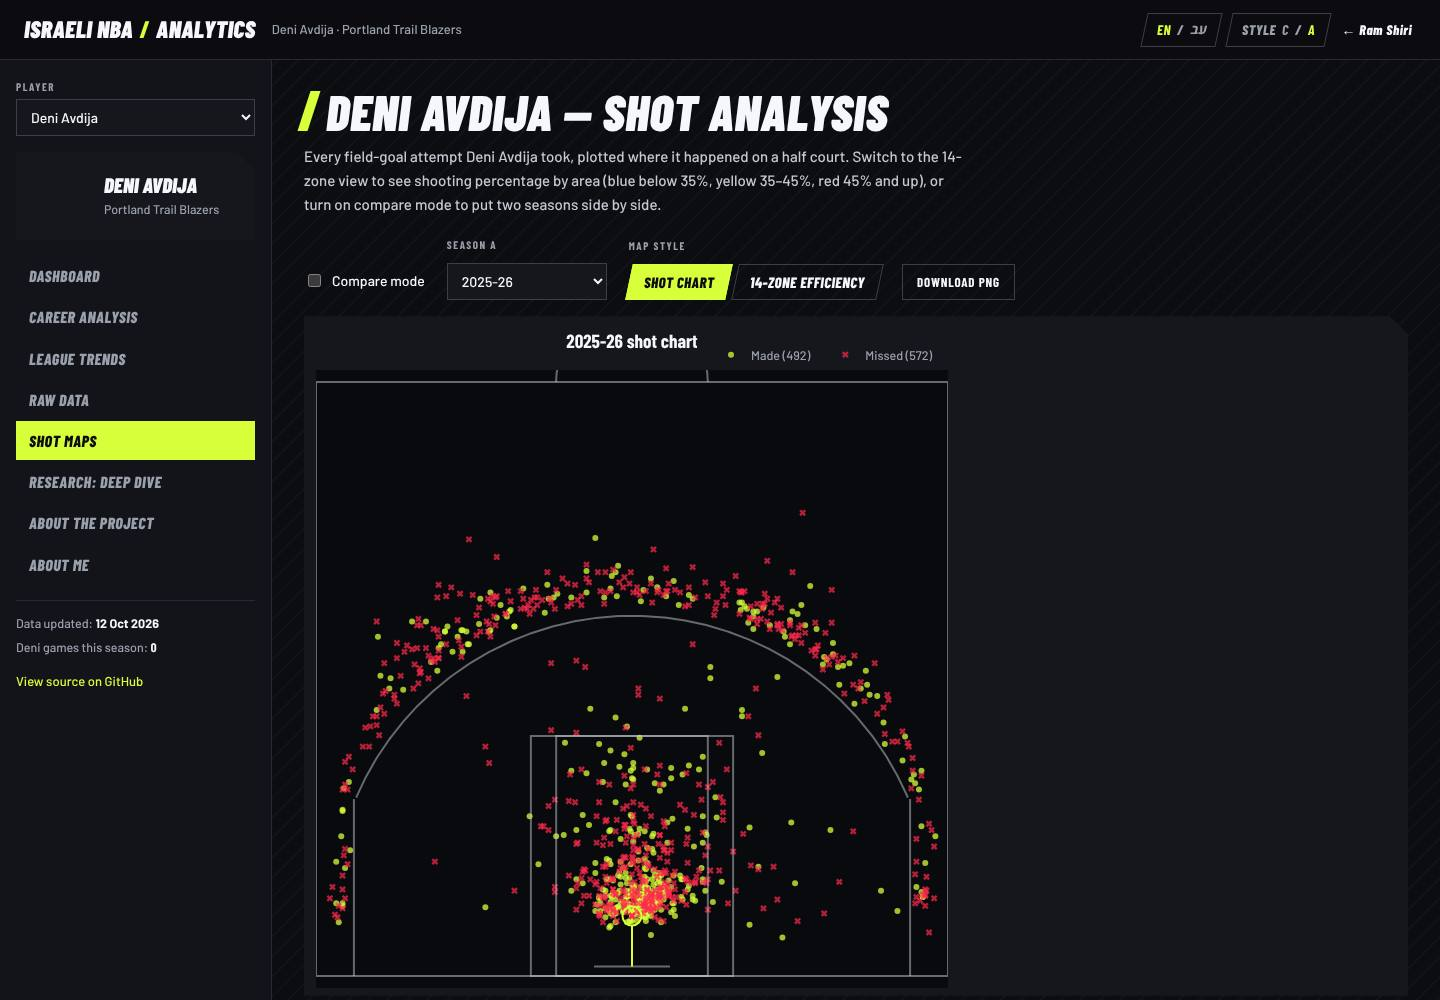
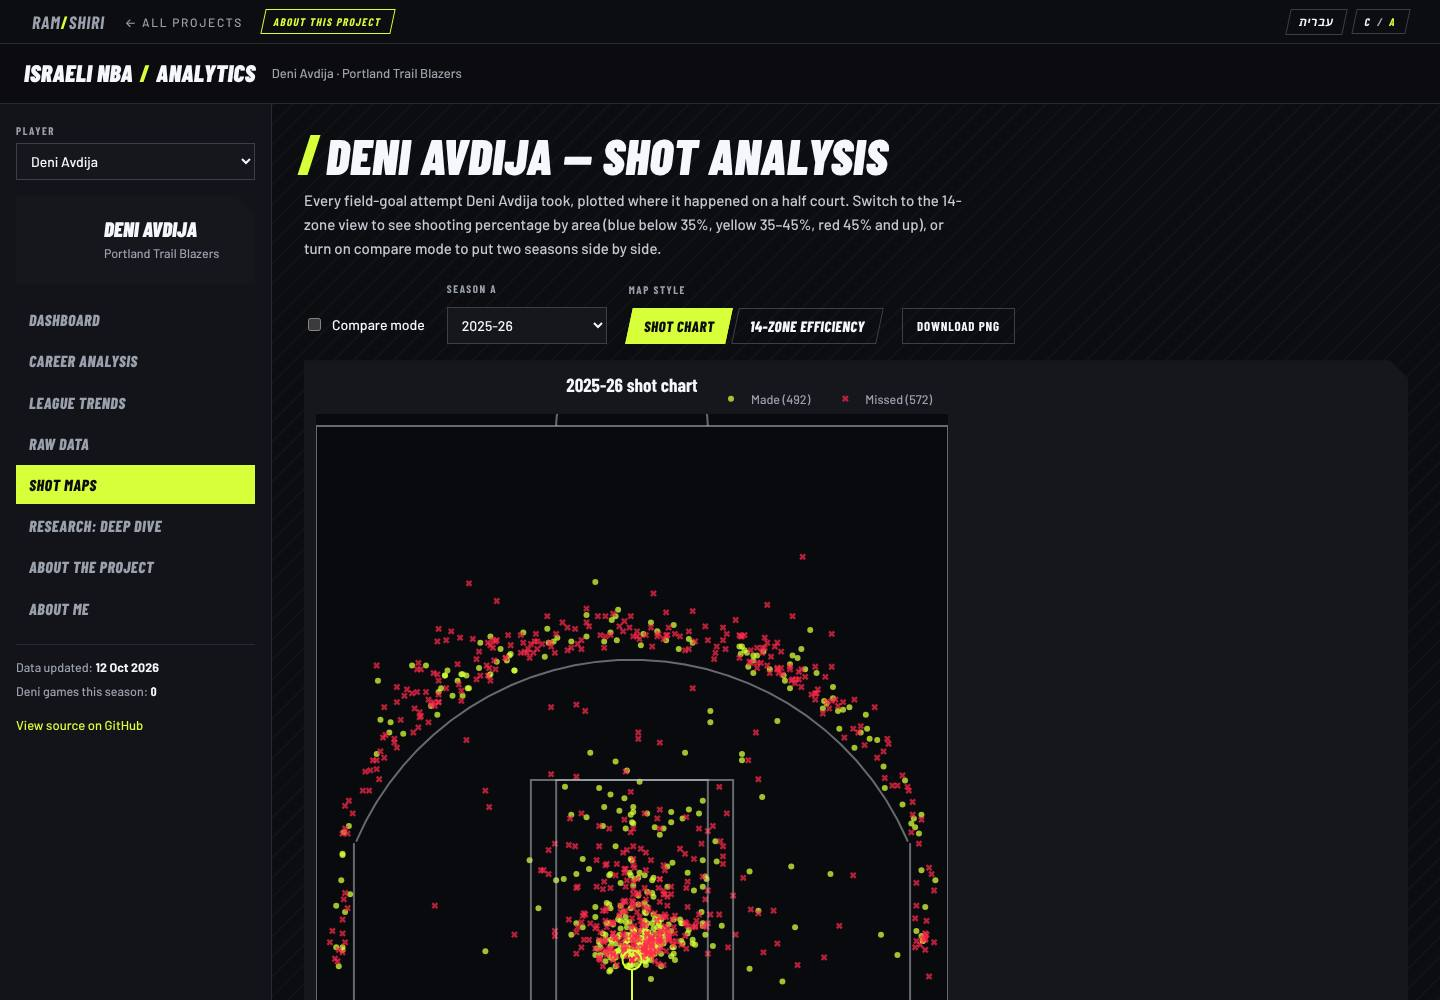
Adopt the shared portfolio bar (brand kit) for style, language and About
Replaces the dashboard's own C/A and EN/HE switches with the portfolio's
shared brand.js/brand.css bar, wires its sitestylechange/sitelangchange
events into re-rendering, and feeds the About sheet from the project
explainer. Screenshots retaken.

Claude-Session: https://claude.ai/code/session_011M2mM3sHnN972wS4dhe82q

diff --git a/nba_dashboard/styles.css b/nba_dashboard/styles.css
@@ -4,7 +4,7 @@
      C  "HUD"      deep navy, cyan hairlines and corner brackets, Chakra Petch over IBM Plex Sans
      A  "Matchday" carbon with diagonal stripes, lime signal, Barlow Condensed italic, chamfered plates
    The structure below is shared; each look only sets tokens and a few flourishes.
-   Hebrew (html[dir="rtl"]) falls back to Heebo for glyphs the display fonts don't carry.
+   Hebrew (html[dir="rtl"]) falls back to IBM Plex Sans Hebrew, loaded by the shared portfolio kit.
    =========================================================================== */
 html[data-style="c"] {
   --bg: #050b14;
@@ -26,8 +26,8 @@ html[data-style="c"] {
   --good: #4ade80;
   --pitch: #040912;
   --court-line: rgba(169, 198, 211, .55);
-  --font: "Chakra Petch", "Heebo", ui-sans-serif, system-ui, sans-serif;
-  --text: "IBM Plex Sans", "Heebo", ui-sans-serif, system-ui, sans-serif;
+  --font: "Chakra Petch", "IBM Plex Sans Hebrew", ui-sans-serif, system-ui, sans-serif;
+  --text: "IBM Plex Sans", "IBM Plex Sans Hebrew", ui-sans-serif, system-ui, sans-serif;
   --head-style: normal;
   --head-weight: 700;
   --head-track: .02em;
@@ -52,8 +52,8 @@ html[data-style="a"] {
   --good: #6bffa0;
   --pitch: #090a0d;
   --court-line: rgba(196, 201, 210, .5);
-  --font: "Barlow Condensed", "Heebo", "Arial Narrow", sans-serif;
-  --text: "Barlow", "Heebo", ui-sans-serif, system-ui, sans-serif;
+  --font: "Barlow Condensed", "IBM Plex Sans Hebrew", "Arial Narrow", sans-serif;
+  --text: "Barlow", "IBM Plex Sans Hebrew", ui-sans-serif, system-ui, sans-serif;
   --head-style: italic;
   --head-weight: 900;
   --head-track: .01em;
@@ -67,7 +67,7 @@ html, body { margin: 0; background: var(--bg); }
 body { color: var(--body); font: 400 15px/1.6 var(--text); -webkit-font-smoothing: antialiased; min-height: 100vh; overflow-x: hidden; }
 html[data-style="c"] body { background-image: radial-gradient(80% 40% at 80% 0%, rgba(77, 240, 255, .06), transparent 70%); background-repeat: no-repeat; }
 html[data-style="a"] body { background-image: repeating-linear-gradient(135deg, rgba(255, 255, 255, .022) 0 2px, transparent 2px 14px); font-weight: 500; }
-html[lang="he"] body { font-family: "Heebo", var(--text); }
+html[lang="he"] body { font-family: "IBM Plex Sans Hebrew", var(--text); }
 
 h1, h2, h3, h4 { font-family: var(--font); color: var(--ink); margin: 0 0 10px; font-weight: var(--head-weight); font-style: var(--head-style);
   letter-spacing: var(--head-track); text-transform: uppercase; line-height: 1.05; }
@@ -102,20 +102,6 @@ hr { border: none; border-top: 1px solid var(--line); margin: 28px 0; }
 html[data-style="c"] .brand { font-weight: 700; font-size: 15px; letter-spacing: .2em; }
 html[data-style="a"] .brand { font-style: italic; font-weight: 900; font-size: 24px; letter-spacing: .01em; }
 .tb-player { color: var(--muted); font-size: 13px; white-space: nowrap; overflow: hidden; text-overflow: ellipsis; min-width: 0; }
-.tb-actions { margin-inline-start: auto; display: flex; align-items: center; gap: 10px; }
-.switch { display: inline-flex; align-items: center; gap: 6px; height: 34px; padding: 0 12px; background: transparent; color: var(--muted);
-  border: 1px solid var(--line-strong); font: 600 12px/1 var(--font); letter-spacing: .14em; text-transform: uppercase; cursor: pointer; white-space: nowrap; }
-.switch b { color: var(--muted); font-weight: 700; }
-.switch:hover { border-color: var(--c); color: var(--ink); }
-html[data-style="c"] #styleSwitch b:first-of-type, html[data-style="a"] #styleSwitch b:last-of-type,
-html[lang="en"] #langSwitch b:first-of-type, html[lang="he"] #langSwitch b:last-of-type { color: var(--c); }
-#langSwitch b:last-of-type { font-family: "Heebo", sans-serif; letter-spacing: 0; }
-@media (min-width: 601px) { html[dir="rtl"] .home-link .hide-sm { display: inline-block; transform: scaleX(-1); } }
-.home-link { font: 600 13px/1 var(--font); letter-spacing: .06em; white-space: nowrap; color: var(--ink); padding: 8px 4px; }
-html[data-style="a"] .switch, html[data-style="a"] .home-link { font-style: italic; font-weight: 800; font-size: 14px; letter-spacing: .04em; }
-html[data-style="a"] .switch { transform: skewX(-12deg); }
-html[data-style="a"] .switch > * { transform: skewX(12deg); }
-
 /* ---------- layout ---------- */
 .layout { display: flex; align-items: flex-start; min-height: calc(100vh - 60px); }
 .sidebar { width: 272px; flex: 0 0 auto; position: sticky; top: 60px; height: calc(100vh - 60px); overflow-y: auto;
@@ -149,7 +135,7 @@ html[data-style="a"] .pc-name { font-size: 21px; }
 html[data-style="c"] .nav button.active { color: var(--c); border-color: var(--line-strong); background: var(--accent-soft); border-inline-start: 2px solid var(--c); }
 html[data-style="a"] .nav button { font-style: italic; font-weight: 800; font-size: 16px; letter-spacing: .03em; }
 html[data-style="a"] .nav button.active { background: var(--c); color: var(--accent-ink); }
-html[lang="he"] .nav button { letter-spacing: 0; font-family: "Heebo", var(--font); font-style: normal; font-weight: 700; }
+html[lang="he"] .nav button { letter-spacing: 0; font-family: "IBM Plex Sans Hebrew", var(--font); font-style: normal; font-weight: 700; }
 
 .status-block { font-size: 12.5px; color: var(--muted); border-top: 1px solid var(--line); padding-top: 12px; }
 .status-block div { margin-bottom: 4px; }
@@ -218,7 +204,7 @@ table.data-table tr.highlight td { background: var(--c); color: var(--accent-ink
 html[data-style="a"] .tabs button { font-style: italic; font-weight: 800; font-size: 15px; letter-spacing: .03em; transform: skewX(-12deg); border-color: var(--line-strong); }
 html[data-style="a"] .tabs button > span { display: inline-block; transform: skewX(12deg); }
 html[data-style="a"] .tabs button[aria-pressed="true"] { background: var(--c); color: var(--accent-ink); border-color: var(--c); }
-html[lang="he"] .tabs button { letter-spacing: 0; font-family: "Heebo", var(--font); font-style: normal; }
+html[lang="he"] .tabs button { letter-spacing: 0; font-family: "IBM Plex Sans Hebrew", var(--font); font-style: normal; }
 
 .btn { display: inline-flex; align-items: center; gap: 8px; height: 36px; padding: 0 14px; background: transparent; color: var(--ink); border: 1px solid var(--line-strong);
   font: 600 13px/1 var(--font); letter-spacing: .06em; text-transform: uppercase; cursor: pointer; }
@@ -238,7 +224,7 @@ html[lang="he"] .tabs button { letter-spacing: 0; font-family: "Heebo", var(--fo
 details.explain, details.scouting { margin-bottom: 20px; padding: 2px 16px; background: var(--panel); border: 1px solid var(--line); }
 details.explain summary, details.scouting summary { cursor: pointer; padding: 12px 0; font: 600 14px/1.3 var(--font); letter-spacing: .06em; text-transform: uppercase; color: var(--ink); }
 html[data-style="a"] details summary { font-style: italic; font-weight: 800; font-size: 17px; }
-html[lang="he"] details summary { letter-spacing: 0; font-family: "Heebo", var(--font); font-style: normal; }
+html[lang="he"] details summary { letter-spacing: 0; font-family: "IBM Plex Sans Hebrew", var(--font); font-style: normal; }
 details .body { padding-bottom: 14px; font-size: 14.5px; line-height: 1.65; max-width: 80ch; }
 details .body blockquote { margin: 12px 0; padding-inline-start: 12px; border-inline-start: 3px solid var(--c); color: var(--muted); font-style: italic; }
 details .body h4 { margin-top: 14px; }
@@ -282,14 +268,9 @@ dl.glossary dd { margin: 0; font-size: 14px; }
 @media (max-width: 600px) {
   .topbar { padding: 0 16px; gap: 8px; }
   .hide-sm { display: none; }
-  .switch { padding: 0 9px; letter-spacing: .06em; }
-  .tb-actions { gap: 6px; }
-  .brand .b2 { display: none; }
   .brand { min-width: 0; overflow: hidden; }
-  .home-link { padding: 8px 0; }
   html[data-style="c"] .brand { font-size: 12px; letter-spacing: .1em; }
   html[data-style="a"] .brand { font-size: 20px; }
-  html[data-style="a"] .switch, html[data-style="a"] .home-link { font-size: 13px; }
   .hero { padding: 14px; gap: 14px; }
   .hero img { width: 64px; height: 64px; }
   .kpi-grid { gap: 8px; }
@@ -304,6 +285,5 @@ dl.glossary dd { margin: 0; font-size: 14px; }
   .controls-row .control { flex: 1 1 140px; }
 }
 @media (max-width: 380px) {
-  .home-link { font-size: 12px; }
   html[data-style="c"] .brand i, html[data-style="a"] .brand i { margin: 0 2px; }
 }

diff --git a/nba_dashboard/index.html b/nba_dashboard/index.html
@@ -8,12 +8,15 @@
   <meta name="theme-color" content="#050b14" />
   <link rel="preconnect" href="https://fonts.googleapis.com" />
   <link rel="preconnect" href="https://fonts.gstatic.com" crossorigin />
-  <link href="https://fonts.googleapis.com/css2?family=Chakra+Petch:wght@400;500;600;700&family=IBM+Plex+Sans:wght@400;500;600&family=Barlow+Condensed:ital,wght@0,700;0,800;1,700;1,800;1,900&family=Barlow:wght@500;600;700&family=Heebo:wght@400;500;700;800&display=swap" rel="stylesheet" />
-  <script>/* same switches as rshiri.github.io: design C (HUD, default) / A (matchday), and English / Hebrew */
+  <link href="https://fonts.googleapis.com/css2?family=Barlow+Condensed:ital,wght@1,900&display=swap" rel="stylesheet" />
+  <!-- shared portfolio kit: the RAM/SHIRI bar with All projects, About, EN/HE and Style C/A,
+       the same switches and localStorage keys (site-style, site-lang) as every project page -->
+  <link rel="stylesheet" href="https://rshiri.github.io/assets/brand/brand.css" />
+  <script src="https://rshiri.github.io/assets/brand/brand.js"></script>
+  <script>/* mirror the kit's choice onto the attributes this dashboard's CSS uses, before first paint */
   (function () {
-    var s = "c", l = "en";
-    try { s = localStorage.getItem("site-style") === "a" ? "a" : "c"; l = localStorage.getItem("site-lang") === "he" ? "he" : "en"; } catch (e) {}
-    var h = document.documentElement;
+    var h = document.documentElement, s = h.getAttribute("data-site-style"), l = h.getAttribute("data-site-lang");
+    try { if (!s) s = localStorage.getItem("site-style") === "a" ? "a" : "c"; if (!l) l = localStorage.getItem("site-lang") === "he" ? "he" : "en"; } catch (e) { s = s || "c"; l = l || "en"; }
     h.setAttribute("data-style", s); h.setAttribute("lang", l); h.setAttribute("dir", l === "he" ? "rtl" : "ltr");
   })();</script>
   <link rel="stylesheet" href="styles.css" />
@@ -24,11 +27,6 @@
   <header class="topbar">
     <a class="brand" href="#dashboard"><span data-i18n="brand_a">Israeli NBA</span><i class="b2">/</i><span class="b2" data-i18n="brand_b">Analytics</span></a>
     <span class="tb-player" id="topbar-player"></span>
-    <div class="tb-actions">
-      <button class="switch" id="langSwitch" type="button" aria-label="Switch language"><b>EN</b><span aria-hidden="true">/</span><b>עב</b></button>
-      <button class="switch" id="styleSwitch" type="button" aria-label="Switch design"><span class="hide-sm" data-i18n="style">Style</span> <b>C</b><span aria-hidden="true">/</span><b>A</b></button>
-      <a class="home-link" href="https://rshiri.github.io/"><span class="hide-sm" aria-hidden="true">&larr; </span>Ram Shiri</a>
-    </div>
   </header>
 
   <div class="layout">

diff --git a/nba_dashboard/app.js b/nba_dashboard/app.js
@@ -183,21 +183,42 @@ async function boot() {
     renderAll();
   });
 
-  document.getElementById("styleSwitch").addEventListener("click", () => {
-    const next = document.documentElement.getAttribute("data-style") === "a" ? "c" : "a";
-    document.documentElement.setAttribute("data-style", next);
-    try { localStorage.setItem("site-style", next); } catch (e) {}
-    renderAll(true);
-  });
-  document.getElementById("langSwitch").addEventListener("click", () => {
-    const next = lang() === "he" ? "en" : "he";
-    document.documentElement.setAttribute("lang", next);
-    document.documentElement.setAttribute("dir", next === "he" ? "rtl" : "ltr");
-    try { localStorage.setItem("site-lang", next); } catch (e) {}
-    renderAll(true);
-  });
+  // The shared portfolio bar (brand.js) owns the EN/HE and C/A switches; mirror its choice here.
+  window.addEventListener("sitestylechange", () => { syncPrefs(); renderAll(true); });
+  window.addEventListener("sitelangchange", () => { syncPrefs(); renderAll(true); });
+  syncPrefs();
 
   renderAll();
+}
+
+function syncPrefs() {
+  const h = document.documentElement;
+  const s = h.getAttribute("data-site-style") || h.getAttribute("data-style") || "c";
+  const l = h.getAttribute("data-site-lang") || h.getAttribute("lang") || "en";
+  h.setAttribute("data-style", s);
+  h.setAttribute("lang", l);
+  h.setAttribute("dir", l === "he" ? "rtl" : "ltr");
+  setAboutPanel();
+}
+
+// Content for the shared bar's "About this project" sheet, taken from the About the Project page.
+function setAboutPanel() {
+  const build = (code) => {
+    const tpl = document.createElement("template");
+    tpl.innerHTML = I18N_BLOCKS[code].project;
+    const kids = Array.from(tpl.content.children);
+    const intro = kids.find(k => k.tagName === "P");
+    const sections = [];
+    kids.forEach(k => {
+      if (k.tagName === "H3") sections.push({ h: k.textContent, p: "" });
+      else if (sections.length) sections[sections.length - 1].p += k.outerHTML;
+    });
+    return { title: I18N[code].page_project, intro: intro ? intro.innerHTML : "", sections };
+  };
+  if (!window.RS_ABOUT) {
+    window.RS_ABOUT = { en: build("en"), he: build("he") };
+    if (window.RSBrand) window.RSBrand.refresh();
+  }
 }
 
 function goPage(page) {

diff --git a/README.md b/README.md
@@ -35,7 +35,8 @@ A player switcher re-renders every page for whichever player is selected:
 - **About the Project** - A page that explains the data pipeline, every page and every metric
 
 ### 🎨 Design
-- Matches [rshiri.github.io](https://rshiri.github.io/): two looks with the same **Style C / A** switch as the portfolio (C = HUD, cyan on deep navy, Chakra Petch; A = Matchday, lime on carbon, Barlow Condensed). The choice is shared with the portfolio through the `site-style` localStorage key.
+- Uses the portfolio's shared bar (`assets/brand/brand.js` + `brand.css` from [rshiri.github.io](https://rshiri.github.io/)): the same RAM/SHIRI header, **All projects** link, **About this project** sheet, EN/עב switch and **Style C / A** switch as every other project page.
+- Two looks (C = HUD, cyan on deep navy, Chakra Petch; A = Matchday, lime on carbon, Barlow Condensed). The choice is shared with the portfolio through the `site-style` localStorage key.
 - **English / Hebrew** switch (`site-lang` key); Hebrew renders right-to-left.
 - Plotly charts read their colours and fonts from the active look's CSS tokens, so they restyle with the switch.
 - Works down to 375px wide: the sidebar collapses to player and page selectors, charts resize, no horizontal page scroll.
